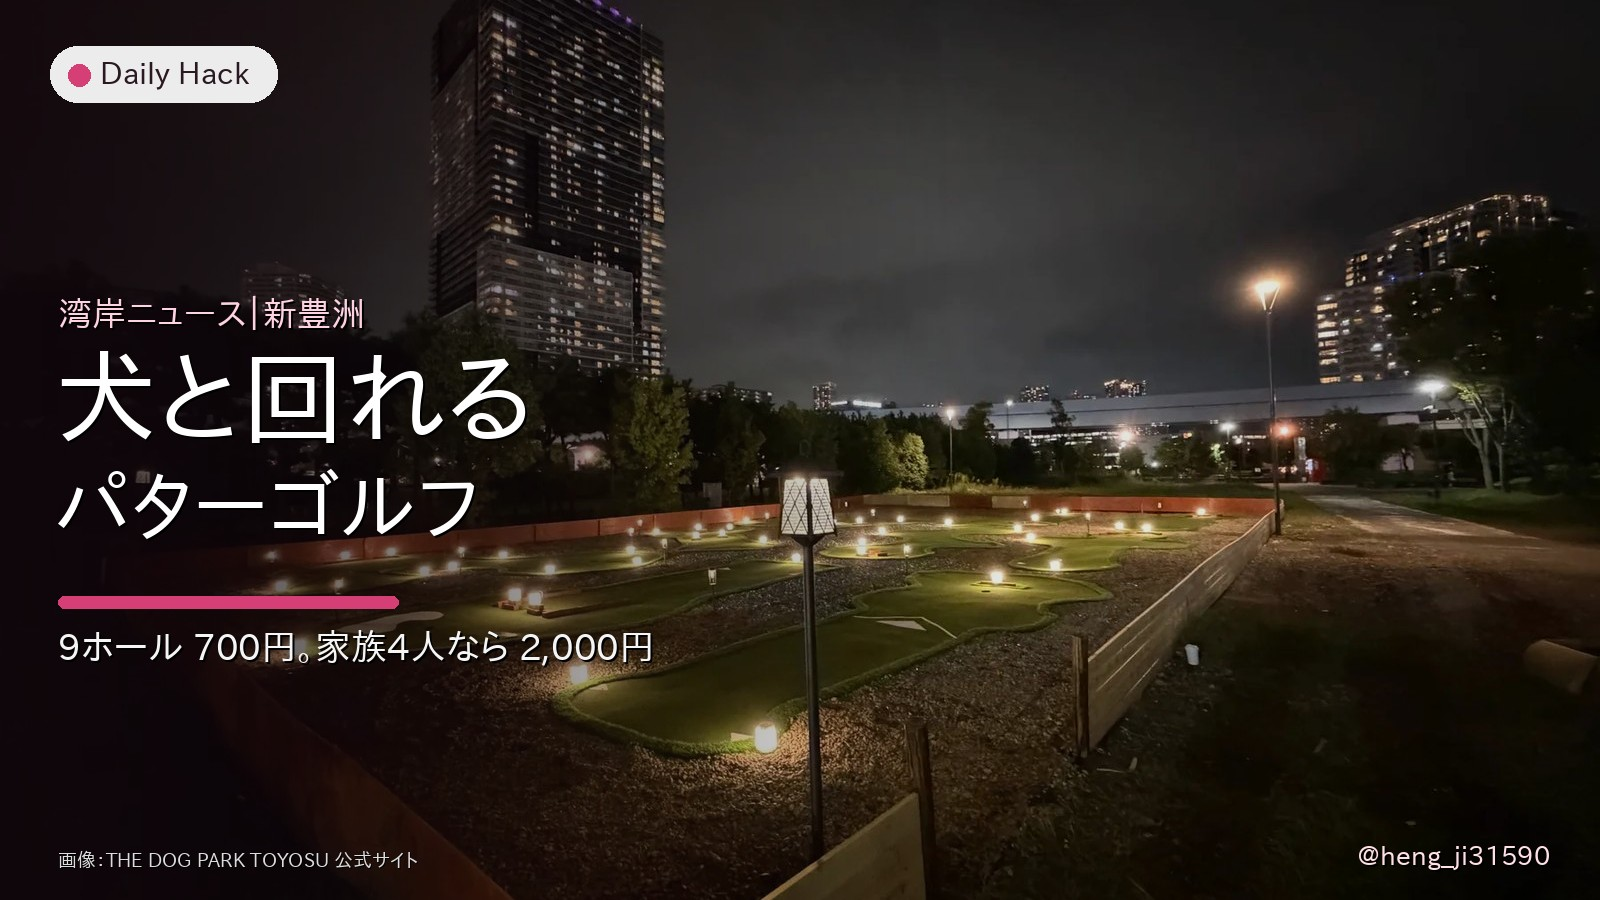
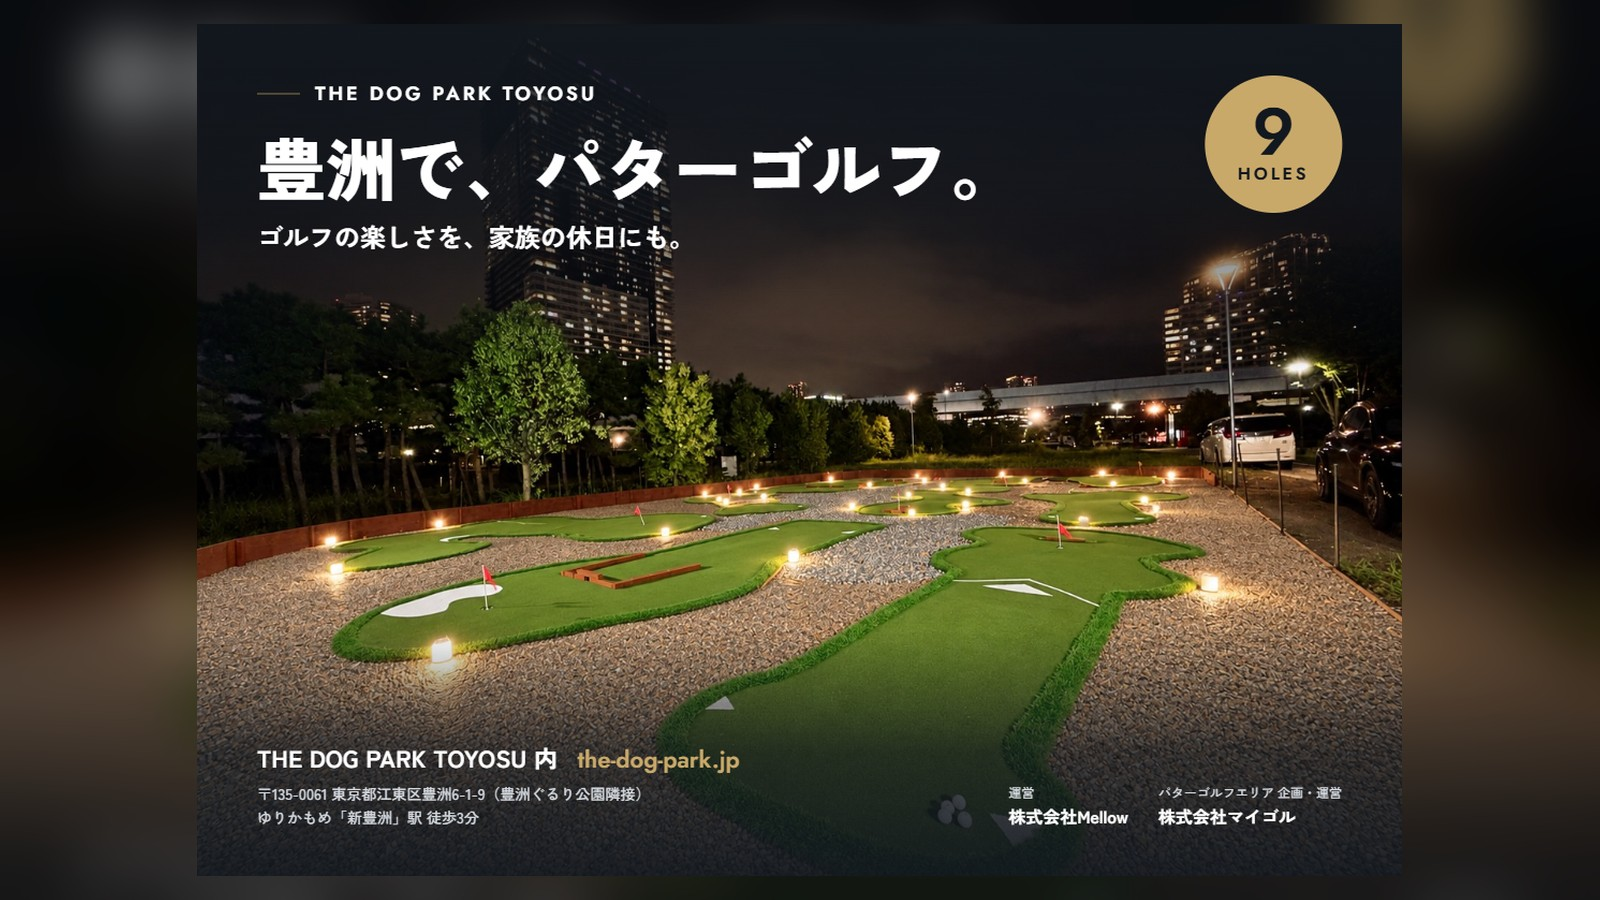
湾岸ニュース 3 本: 表紙を公式の元の画像に、SNS の声（YouTube）の節を追加（利用者のコメント）
Claude-Session: https://claude.ai/code/session_01RqPaqffepEWsiAkvhJEvmW

diff --git a/scripts/gen-news-cover.py b/scripts/gen-news-cover.py
@@ -1,0 +1,29 @@
+#!/usr/bin/env python3
+"""湾岸ニュースの表紙：主催者・公式の元の画像を、そのまま 1600×900 に収める。
+
+2026-10-25 利用者「表紙は記事のようにしないで、速報感や公式感が出るようにオリジナルの画像を使って欲しい。
+ほかの湾岸ニュース記事でも同じような構成にして」。文字は足さない。画像は切らずに全体を見せ、
+余白は同じ画像をぼかして暗くしたもので埋める（縦長のチラシでも横長のキービジュアルでも同じ形になる）。
+
+Usage: gen-news-cover.py <元の画像> <出力 eyecatch.jpg>
+"""
+import sys
+from PIL import Image, ImageFilter, ImageEnhance
+
+src_p, out = sys.argv[1:3]
+W, H = 1600, 900
+src = Image.open(src_p).convert("RGB")
+
+# 背景：同じ画像を全面に敷いて、ぼかして暗くする
+sc = max(W / src.width, H / src.height)
+bg = src.resize((int(src.width * sc) + 1, int(src.height * sc) + 1), Image.LANCZOS)
+bg = bg.crop(((bg.width - W) // 2, (bg.height - H) // 2, (bg.width - W) // 2 + W, (bg.height - H) // 2 + H))
+bg = ImageEnhance.Brightness(bg.filter(ImageFilter.GaussianBlur(28))).enhance(0.55)
+
+# 前景：元の画像を切らずに収める（上下左右 24px の余白）
+pad = 24
+fs = min((W - 2 * pad) / src.width, (H - 2 * pad) / src.height)
+fg = src.resize((int(src.width * fs), int(src.height * fs)), Image.LANCZOS)
+bg.paste(fg, ((W - fg.width) // 2, (H - fg.height) // 2))
+bg.save(out, quality=90)
+print("saved", out, fg.size)

diff --git a/docs/wangan-news-routine.md b/docs/wangan-news-routine.md
@@ -58,9 +58,16 @@
    - もらえる物・条件・先着の数は表にする。迷いやすい点は `checklist`
    - 関連記事を本文中に 2 か所（既存の湾岸記事）
    - 出典を `source-note` に。画像は `figcaption > cite` で出典
-7. **画像**: プレスリリースの素材を `public/images/<slug>/photos/` に置き、`_manifest.json` に出典 URL・権利表記・取得日を書く。
-   表紙は `python3 scripts/gen-photo-hero.py <写真> public/images/<slug>/eyecatch.jpg "湾岸ニュース｜<地名>" <見出し1> <見出し2> <読む理由> <出典>`。
-   写真の右下に © がある素材は `HERO_HANDLE_TOP=1` を付ける（© は消さない）。**できた表紙を必ず開いて見る**
+7. **画像**: プレスリリース・主催者の素材を `public/images/<slug>/photos/` に置き、`_manifest.json` に出典 URL・権利表記・取得日を書く。
+   **表紙は主催者・公式の元の画像をそのまま使う**（2026-10-25 利用者「表紙は記事のようにしないで、速報感や公式感が出るようにオリジナルの画像を使って欲しい」）。
+   `python3 scripts/gen-news-cover.py <公式の画像> public/images/<slug>/eyecatch.jpg`。文字は足さない。チラシ・キービジュアル・告知画像を選ぶ。
+   **gen-photo-hero.py（見出しを載せた記事風の表紙）は湾岸ニュースでは使わない。** できた表紙を必ず開いて見る
+7-B. **SNS の声を拾って載せる**（2026-10-25 利用者「X や YouTube、インスタで特集されている投稿を実際に探してきて、どんなことを言っているかまとめて掲載して。すべての湾岸ライフ記事で同じように」）:
+   - **X**: Mac に `ops/tasks/t331-wangan-news-x-voices.sh` の形で検索させる（話題順・最新順。syndication API で本文・投稿者・日付を確かめる）
+   - **YouTube**: クラウドから検索結果（`ytInitialData`）を読み、**oEmbed でタイトルと投稿者を照合**してから埋め込む
+   - **Instagram**: Mac の Chrome が未ログインで読めない。読めるようになるまでは載せない
+   - 記事に「SNS ではこう言われている」の節を置き、**投稿の言っていることを 3〜5 行でまとめる**＋実投稿を埋め込む。実在する投稿だけ。宣伝より体験の投稿を選ぶ
+   - Mac の結果を待つあいだに先に公開してよい。届いたら同じ日のうちに足して出し直す
 8. **検査**: `npm run build`（Complete! を確かめる）→ `npx astro check --minimumSeverity error` → `check-article-ux.py` → `check-md-bold.py` → アンカー切れの照合
 9. **公開**: まとめて 1 本の PR（その日の記事すべて）→ CI → マージ。**PR の bot コメントのプレビュー URL** を記事ごとに取る（最上位ルール 16）
 10. **報告**（日本語・最上位ルール 22）: 「レビューのお願い」を先頭に、記事ごとに見出し＋プレビュー URL（記事パス付き）＋見てほしい点 2 つ。
@@ -70,7 +77,7 @@
 ## 記事の型
 
 構成の見本は `src/content/posts/aquacity-rilakkuma-xmas-2026.md`（**港区の施設なので非公開にした。構成だけ真似る。題材は真似ない**）。
-冒頭（疑問 2 つ → だからまとめた → ハッカー子の一番大事なこと）→ 30 秒で分かる写真カード 3 枚 → 期間と場所の仕様表 → もらえる物・条件・先着数の表 → 日付限定の催し → 回り方の checklist → 出典 → 締めの一言。
+冒頭（疑問 2 つ → だからまとめた → ハッカー子の一番大事なこと）→ 30 秒で分かる写真カード 3 枚 → 期間と場所の仕様表 → もらえる物・条件・先着数の表 → 日付限定の催し → **SNS ではこう言われている（X・YouTube のまとめと埋め込み）** → 回り方の checklist → 出典 → 締めの一言。表紙は公式の元の画像。
 
 ## 書かないもの
 

diff --git a/src/content/posts/bousai-motorshow-ariake-2026.md b/src/content/posts/bousai-motorshow-ariake-2026.md
@@ -108,6 +108,24 @@ references: ["https://www.tokyorinkai-koen.jp/news/oshirase/14886/", "https://ww
 
 **お菓子と飲み物ねらいなら、早い時間に行くほうがいい。**
 
+## SNS ではこう言われている｜過去の回の動画
+
+<!-- sns-x:bousai -->
+
+YouTube には、2024 年のぼうさいモーターショーを車両ごとに撮った動画が上がっている。
+
+- **国土交通省の対策本部車（拡幅型）**、照明車、排水ポンプ車など、国の災害対応の車両が並んだ
+- **NTT 東日本の災害特別支援隊**の車両や衛星通信の車など、通信を立て直す車も来ていた
+- **災害対策指揮車**、MIRAI のパトカー、**特務機関NERV の災害対策車**、**屈折放水塔車**・高性能救助車まで撮られている
+
+<div class="yt-embed"><iframe src="https://www.youtube-nocookie.com/embed/QxBnVA0vveM" title="2024 ぼうさいモーターショーpart1（saitou hayato NO WAR）" loading="lazy" allowfullscreen
+  allow="accelerometer; autoplay; clipboard-write; encrypted-media; gyroscope; picture-in-picture"></iframe></div>
+
+<div class="yt-embed"><iframe src="https://www.youtube-nocookie.com/embed/WI49Kfu97dA" title="2024 ぼうさいモーターショーpart2（saitou hayato NO WAR）" loading="lazy" allowfullscreen
+  allow="accelerometer; autoplay; clipboard-write; encrypted-media; gyroscope; picture-in-picture"></iframe></div>
+
+<p class="source-note">動画：YouTube「2024 ぼうさいモーターショー part1・part2」（saitou hayato NO WAR）。今年の出展車両は主催のお知らせで確かめて。</p>
+
 ## 同じ日に、そなエリア東京で親子向けの催し
 
 公園の中にある防災体験学習施設「**そなエリア東京**」では、同じ日に「**親子で発見！無電柱化のチカラ2026**」がある（9:30〜16:30）。電柱玉当てゲームなどで、電柱の無い街づくりを子どもと一緒に学べる。
@@ -134,7 +152,7 @@ references: ["https://www.tokyorinkai-koen.jp/news/oshirase/14886/", "https://ww
   </ul>
 </aside>
 
-<p class="source-note">出典：<a href="https://www.tokyorinkai-koen.jp/news/oshirase/14886/" target="_blank" rel="noopener">東京臨海広域防災公園「ぼうさいモーターショー2026開催！」（2026年10月24日）</a>／<a href="https://prtimes.jp/main/html/rd/p/000000154.000063577.html" target="_blank" rel="noopener">新電元工業株式会社のプレスリリース（PR TIMES・2026年10月23日）</a>。天候などで内容が変わることがある。</p>
+<p class="source-note">表紙は主催（東京臨海広域防災公園）の告知チラシ。出典：<a href="https://www.tokyorinkai-koen.jp/news/oshirase/14886/" target="_blank" rel="noopener">東京臨海広域防災公園「ぼうさいモーターショー2026開催！」（2026年10月24日）</a>／<a href="https://prtimes.jp/main/html/rd/p/000000154.000063577.html" target="_blank" rel="noopener">新電元工業株式会社のプレスリリース（PR TIMES・2026年10月23日）</a>。天候などで内容が変わることがある。</p>
 
 <div class="hakkako-says">
   <div class="hakkako-mascot"><img src="/images/expr-01-wave.png" alt="Daily Hackマスコット" /></div>

diff --git a/src/content/posts/the-dog-park-toyosu-putter-golf-2026.md b/src/content/posts/the-dog-park-toyosu-putter-golf-2026.md
@@ -111,6 +111,23 @@ references: ["https://prtimes.jp/main/html/rd/p/000000030.000103607.html", "http
 
 18時からは、各ホールを照らす灯りの中で回れる。仕事帰りや、夕方の犬の散歩のついでに寄れる時間帯。
 
+## SNS ではこう言われている
+
+<!-- sns-x:dog -->
+
+YouTube には、9 月のプレオープンのころから飼い主の動画が上がっている。
+
+- 「**飼い主絶対必見**」と、豊洲にできた大型のドッグパークとして紹介する動画（9 月 11 日のプレオープン）
+- ポメラニアンが**新しいドッグパークで大はしゃぎ**する様子を撮った動画
+
+<div class="yt-embed"><iframe src="https://www.youtube-nocookie.com/embed/I66e7BD1p0g" title="豊洲に大型ドッグパーク誕生！THE DOG PARK TOYOSU（ウチるんチャンネル）" loading="lazy" allowfullscreen
+  allow="accelerometer; autoplay; clipboard-write; encrypted-media; gyroscope; picture-in-picture"></iframe></div>
+
+<div class="yt-embed"><iframe src="https://www.youtube-nocookie.com/embed/IJYNha4gr1E" title="新しくできたTHE DOG PARK TOYOSU に行って大はしゃぎしたポメラニアン（とっとこトコ太郎）" loading="lazy" allowfullscreen
+  allow="accelerometer; autoplay; clipboard-write; encrypted-media; gyroscope; picture-in-picture"></iframe></div>
+
+<p class="source-note">動画：YouTube「飼主絶対必見動画！豊洲に大型ドッグパーク誕生！」（ウチるんチャンネル）／「新しくできたTHE DOG PARK TOYOSU に行って大はしゃぎしたポメラニアン」（とっとこトコ太郎）</p>
+
 ## 犬を連れて行くときの決まり
 
 <ul class="checklist">
@@ -135,7 +152,7 @@ references: ["https://prtimes.jp/main/html/rd/p/000000030.000103607.html", "http
   </ul>
 </aside>
 
-<p class="source-note">出典：<a href="https://prtimes.jp/main/html/rd/p/000000030.000103607.html" target="_blank" rel="noopener">株式会社マイゴル「愛犬と楽しめるパターゴルフが豊洲に10月7日オープン」（PR TIMES・2026年10月9日）</a>／<a href="https://the-dog-park.jp/putter-golf" target="_blank" rel="noopener">THE DOG PARK TOYOSU 公式サイト</a>。料金や時間は変わることがある。</p>
+<p class="source-note">表紙は株式会社マイゴルのプレスリリースの告知画像。出典：<a href="https://prtimes.jp/main/html/rd/p/000000030.000103607.html" target="_blank" rel="noopener">株式会社マイゴル「愛犬と楽しめるパターゴルフが豊洲に10月7日オープン」（PR TIMES・2026年10月9日）</a>／<a href="https://the-dog-park.jp/putter-golf" target="_blank" rel="noopener">THE DOG PARK TOYOSU 公式サイト</a>。料金や時間は変わることがある。</p>
 
 <div class="hakkako-says">
   <div class="hakkako-mascot"><img src="/images/expr-01-wave.png" alt="Daily Hackマスコット" /></div>

diff --git a/src/content/posts/tokyo-christmas-market-shintoyosu-2026.md b/src/content/posts/tokyo-christmas-market-shintoyosu-2026.md
@@ -141,6 +141,17 @@ references: ["https://prtimes.jp/main/html/rd/p/000000084.000047941.html", "http
 
 <p class="source-note">料理の値段は発表されていない。メニューと数量は変わることがある。お酒は20歳になってから。</p>
 
+## SNS ではこう言われている
+
+<!-- sns-x:xmas -->
+
+公式の YouTube チャンネルが、10 月下旬に今年の案内の動画を出している。
+
+<div class="yt-embed"><iframe src="https://www.youtube-nocookie.com/embed/YRHqI3Ifz0w" title="東京クリスマスマーケットについて（東京クリスマスマーケット公式）" loading="lazy" allowfullscreen
+  allow="accelerometer; autoplay; clipboard-write; encrypted-media; gyroscope; picture-in-picture"></iframe></div>
+
+<p class="source-note">動画：YouTube「東京クリスマスマーケットについて」（東京クリスマスマーケット公式チャンネル）</p>
+
 <aside class="related-block">
   <div class="related-block-head">
     <span class="related-block-icon"><img src="/images/expr-05-smug.png" alt="" /></span>
@@ -157,7 +168,7 @@ references: ["https://prtimes.jp/main/html/rd/p/000000084.000047941.html", "http
   </ul>
 </aside>
 
-<p class="source-note">出典：<a href="https://prtimes.jp/main/html/rd/p/000000084.000047941.html" target="_blank" rel="noopener">東京クリスマスマーケット実行委員会「新豊洲初開催『東京クリスマスマーケット2026』注目グルメを公開！」（PR TIMES・2026年10月16日）</a>／<a href="https://prtimes.jp/main/html/rd/p/000000200.000028214.html" target="_blank" rel="noopener">KKday「マグカップ付き入場券を発売」（PR TIMES・2026年10月2日）</a>／<a href="https://tokyochristmas.net/" target="_blank" rel="noopener">東京クリスマスマーケット公式サイト</a>。内容は変わることがある。出かける前に公式サイトで確かめて。</p>
+<p class="source-note">表紙は東京クリスマスマーケット実行委員会のフードのキービジュアル。出典：<a href="https://prtimes.jp/main/html/rd/p/000000084.000047941.html" target="_blank" rel="noopener">東京クリスマスマーケット実行委員会「新豊洲初開催『東京クリスマスマーケット2026』注目グルメを公開！」（PR TIMES・2026年10月16日）</a>／<a href="https://prtimes.jp/main/html/rd/p/000000200.000028214.html" target="_blank" rel="noopener">KKday「マグカップ付き入場券を発売」（PR TIMES・2026年10月2日）</a>／<a href="https://tokyochristmas.net/" target="_blank" rel="noopener">東京クリスマスマーケット公式サイト</a>。内容は変わることがある。出かける前に公式サイトで確かめて。</p>
 
 <div class="hakkako-says">
   <div class="hakkako-mascot"><img src="/images/expr-01-wave.png" alt="Daily Hackマスコット" /></div>

diff --git a/.claude/skills/blog-article/SKILL.md b/.claude/skills/blog-article/SKILL.md
@@ -701,6 +701,11 @@ ls public/images/*/logos/*.png        # ← **先にここを見る**
 
 ### X の実投稿を埋め込む
 
+**湾岸ライフの記事（湾岸ニュースを含む）は、必ず「SNS ではこう言われている」の節を置く**（2026-10-25 利用者
+「X や YouTube、インスタで特集されている投稿を実際に探してきて、どんなことを言っているかまとめて掲載して。すべての湾岸ライフ記事で同じように」）。
+X は Mac（`ops/tasks/t331-wangan-news-x-voices.sh` の形）、YouTube はクラウドの検索結果＋oEmbed 照合。言っていることを 3〜5 行でまとめ、実投稿を埋め込む。
+**湾岸ニュースの表紙は公式の元の画像をそのまま使う**（`scripts/gen-news-cover.py`。見出しを載せた記事風の表紙にしない）。手順は `docs/wangan-news-routine.md`。
+
 **行った人の声が無い記事は、どこにでもある要約記事になる。**
 対象ごとに、その施設に触れている実投稿を 1 つ埋め込む。
 
